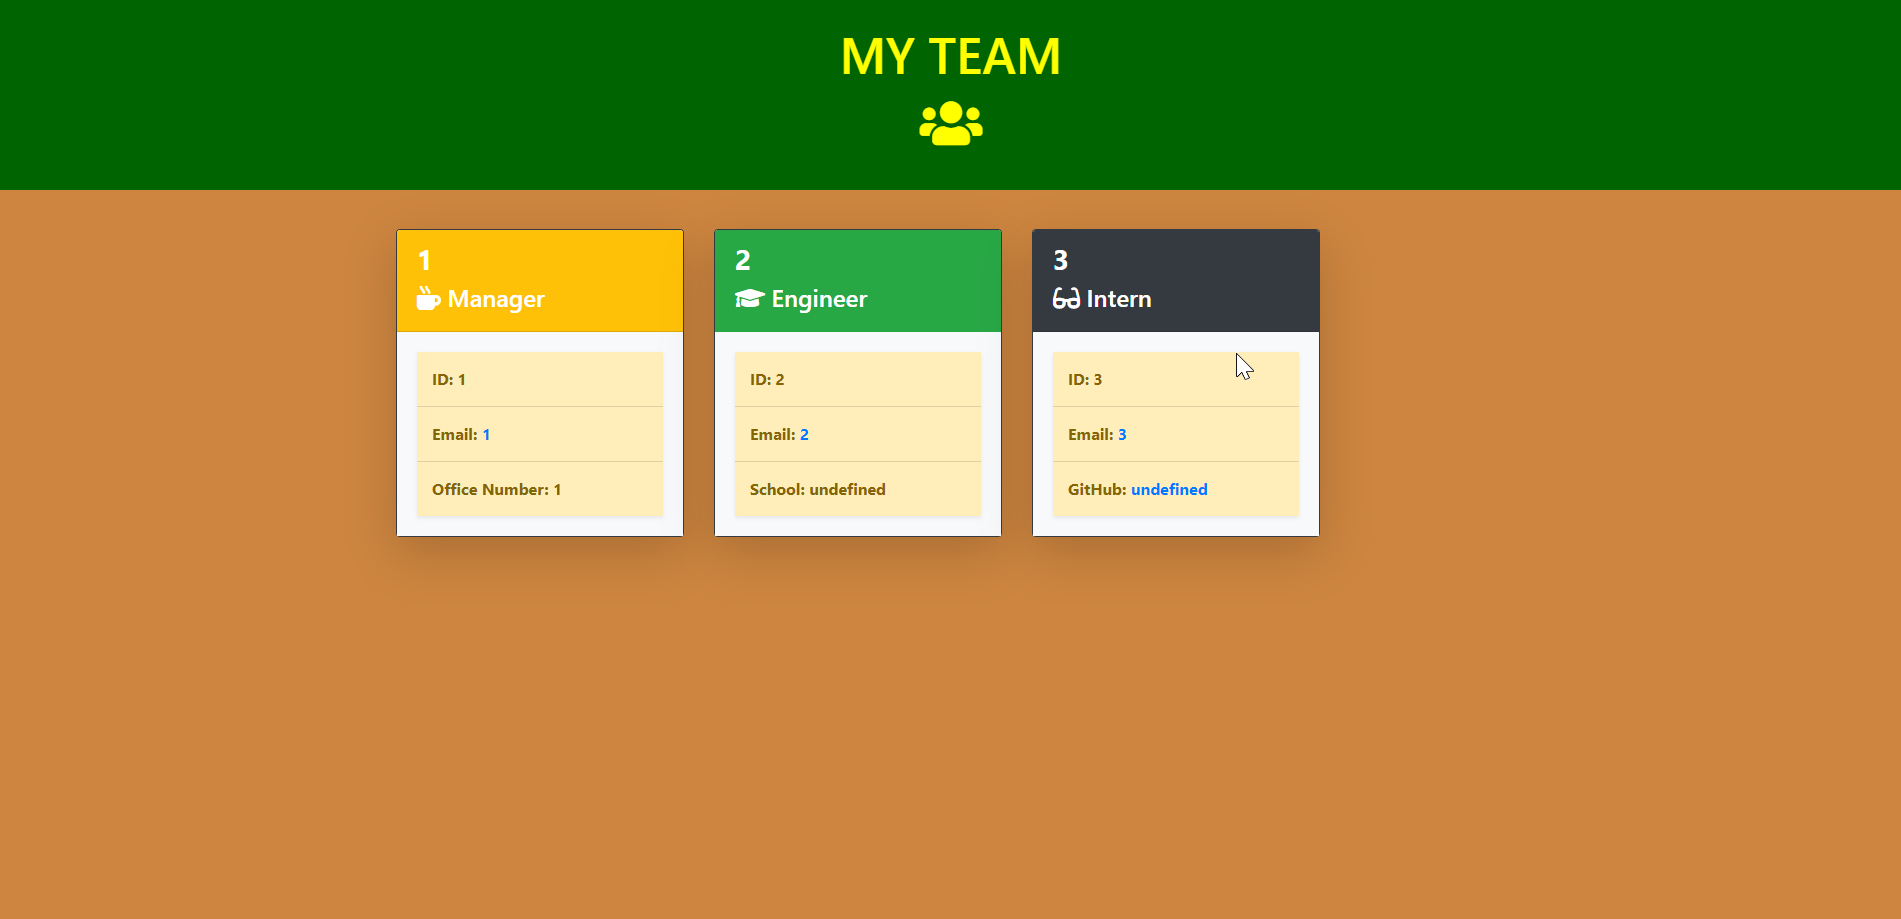
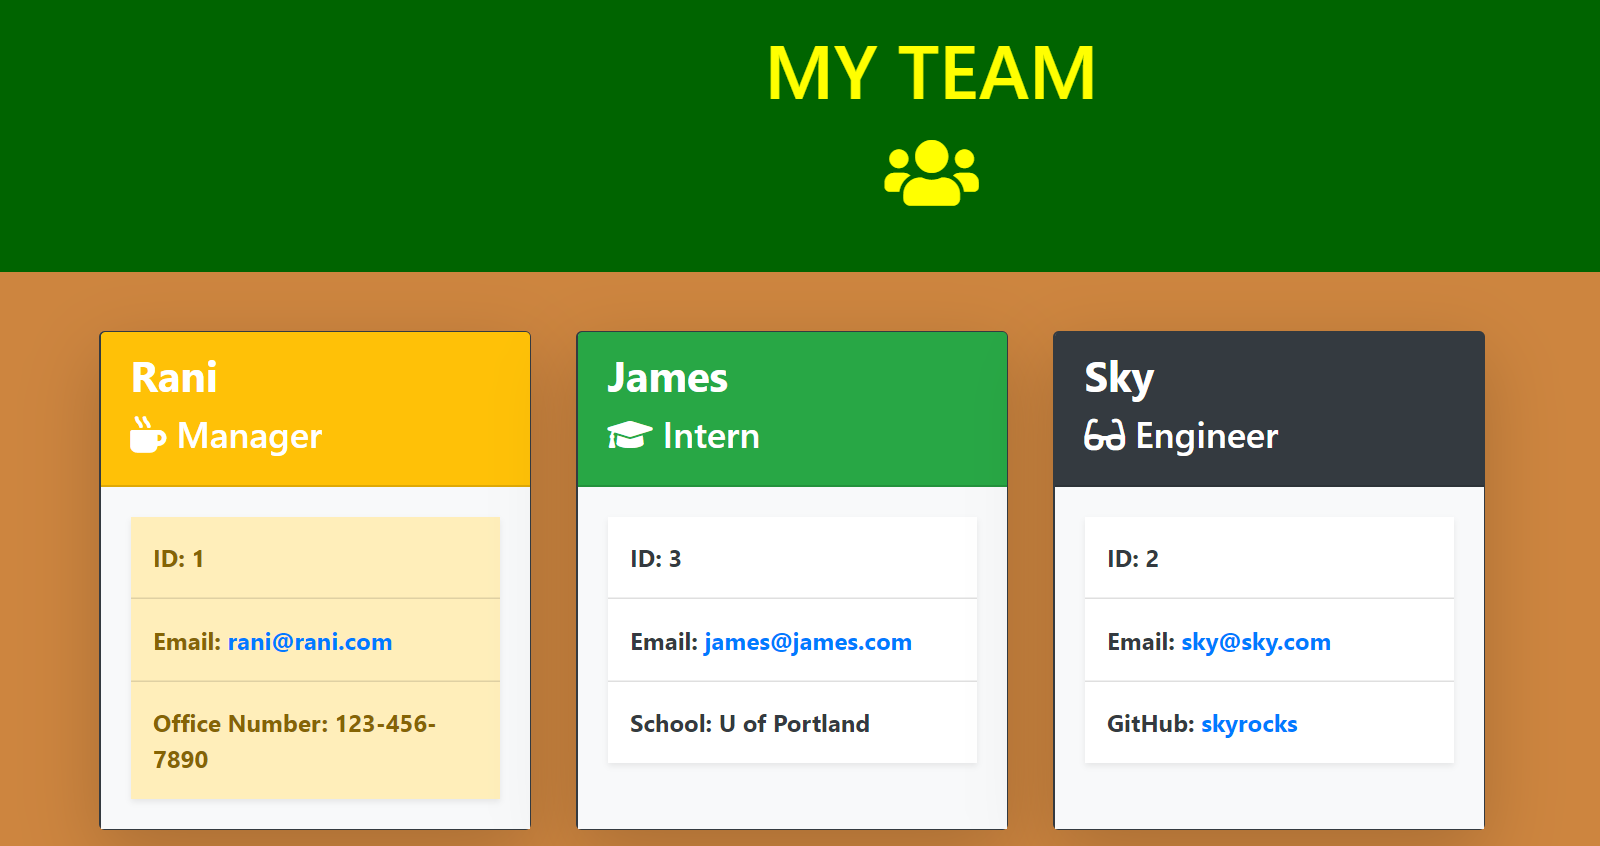
fixed card bug

diff --git a/output/team.html b/output/team.html
@@ -63,72 +63,47 @@
   
           <div class="card  border-dark text-white shadow-lg" style="max-width: 18rem;">
             <div class="card-header bg-warning">
-              <h3>1</h3>
+              <h3>Rani</h3>
               <h4><i class="fas fa-mug-hot"></i> Manager</h4>
             </div>
             <div class="card-body bg-light">
               <ul class="list-group list-group-flush text-dark shadow-sm">
                 <li class="list-group-item list-group-item-warning">ID: 1</li>
-                <li class="list-group-item list-group-item-warning">Email: <a href="mailto: 1"
-                    target="_blank">1</a></li>
-                <li class="list-group-item list-group-item-warning">Office Number: 1</li>
+                <li class="list-group-item list-group-item-warning">Email: <a href="mailto: rani@rani.com"
+                    target="_blank">rani@rani.com</a></li>
+                <li class="list-group-item list-group-item-warning">Office Number: 123-456-7890</li>
               </ul>
   
             </div>
           </div>
-          <div class="card text-white shadow-lg" style="max-width: 18rem;">
-      <div class="card-header bg-dark">
-        <h3>3</h3>
-        <h4><i class="fas fa-glasses"></i> Intern</h4>
+           <div class="card border-dark text-white shadow-lg" style="max-width: 18rem;">
+      <div class="card-header bg-success">
+        <h3>James</h3>
+        <h4><i class="fas fa-graduation-cap"></i> Intern</h4>
       </div>
       <div class="card-body bg-light">
         <ul class="list-group list-group-flush text-dark shadow-sm">
           <li class="list-group-item">ID: 3</li>
-          <li class="list-group-item">Email: <a href="mailto: 3" target="_blank">3</a></li>
-          <li class="list-group-item">GitHub: <a href="https://github.com/undefined" target="_blank">undefined</a></li>          </ul>
+          <li class="list-group-item">Email: <a href="mailto: james@james.com" target="_blank">james@james.com</a></li>
+          <li class="list-group-item">School: U of Portland</li>
+        </ul>
 
       </div>
-    </div>,<div class="card text-white shadow-lg" style="max-width: 18rem;">
+    </div>
+          <div class="card border-dark text-white shadow-lg" style="max-width: 18rem;">
       <div class="card-header bg-dark">
-        <h3>3</h3>
-        <h4><i class="fas fa-glasses"></i> Intern</h4>
-      </div>
-      <div class="card-body bg-light">
-        <ul class="list-group list-group-flush text-dark shadow-sm">
-          <li class="list-group-item">ID: 3</li>
-          <li class="list-group-item">Email: <a href="mailto: 3" target="_blank">3</a></li>
-          <li class="list-group-item">GitHub: <a href="https://github.com/undefined" target="_blank">undefined</a></li>          </ul>
-
-      </div>
-    </div>
-          <div class="card text-white shadow-lg" style="max-width: 18rem;">
-      <div class="card-header bg-success">
-        <h3>2</h3>
-        <h4><i class="fas fa-graduation-cap"></i> Engineer</h4>
+        <h3>Sky</h3>
+        <h4><i class="fas fa-glasses"></i> Engineer</h4>
       </div>
       <div class="card-body bg-light">
         <ul class="list-group list-group-flush text-dark shadow-sm">
           <li class="list-group-item">ID: 2</li>
-          <li class="list-group-item">Email: <a href="mailto: 2" target="_blank">2</a></li>
-          <li class="list-group-item">School: undefined</li>
-        </ul>
-
-      </div>
-    </div>,<div class="card text-white shadow-lg" style="max-width: 18rem;">
-      <div class="card-header bg-success">
-        <h3>2</h3>
-        <h4><i class="fas fa-graduation-cap"></i> Engineer</h4>
-      </div>
-      <div class="card-body bg-light">
-        <ul class="list-group list-group-flush text-dark shadow-sm">
-          <li class="list-group-item">ID: 2</li>
-          <li class="list-group-item">Email: <a href="mailto: 2" target="_blank">2</a></li>
-          <li class="list-group-item">School: undefined</li>
-        </ul>
+          <li class="list-group-item">Email: <a href="mailto: sky@sky.com" target="_blank">sky@sky.com</a></li>
+          <li class="list-group-item">GitHub: <a href="https://github.com/skyrocks" target="_blank">skyrocks</a></li>          </ul>
 
       </div>
     </div>
-        </div>
+          </div>
       </div>
     </div>
   

diff --git a/lib/create.js b/lib/create.js
@@ -3,7 +3,7 @@ const fs = require("fs");
 
 const create = (managerArray, internArray, engineerArray) => {
   const internCards = internArray.map(employee => {
-    return `<div class="card text-white shadow-lg" style="max-width: 18rem;">
+    return `<div class="card border-dark text-white shadow-lg" style="max-width: 18rem;">
       <div class="card-header bg-success">
         <h3>${employee.name}</h3>
         <h4><i class="fas fa-graduation-cap"></i> ${employee.getRole()}</h4>
@@ -22,7 +22,7 @@ const create = (managerArray, internArray, engineerArray) => {
   });
 
   const engineerCards = engineerArray.map(employee => {
-    return `<div class="card text-white shadow-lg" style="max-width: 18rem;">
+    return `<div class="card border-dark text-white shadow-lg" style="max-width: 18rem;">
       <div class="card-header bg-dark">
         <h3>${employee.name}</h3>
         <h4><i class="fas fa-glasses"></i> ${employee.getRole()}</h4>
@@ -41,7 +41,7 @@ const create = (managerArray, internArray, engineerArray) => {
     </div>`;
   });
 
-  html = generateHTML(managerArray, internCards, engineerCards);
+  const html = generateHTML(managerArray, internCards, engineerCards);
 
   fs.writeFile("./output/team.html", html, function(err) {
     if (err) {

diff --git a/app.js b/app.js
@@ -87,7 +87,7 @@ askForEmployee = function() {
       } else if (
         val.selection === "I don't want to add any more team members"
       ) {
-        create(managerArray, engineerArray, internArray);
+        create(managerArray, internArray, engineerArray);
       }
     });
 };

diff --git a/lib/generateHTML.js b/lib/generateHTML.js
@@ -85,9 +85,9 @@ const generateHTML = (managerArray, internCards, engineerCards) => {
   
             </div>
           </div>
+           ${internCards}
           ${engineerCards}
-          ${internCards}
-        </div>
+          </div>
       </div>
     </div>
   
